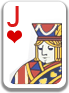
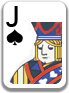
Change card image name for mapping

diff --git a/lib/src/play_session/positioned_player_slot.dart b/lib/src/play_session/positioned_player_slot.dart
@@ -2,6 +2,7 @@ import 'package:flutter/material.dart';
 
 
 import '../cards/cards.dart';
+import '../../proto/message.pb.dart' as $proto;
 
 
 class PlayerPanel extends StatelessWidget {
@@ -10,6 +11,8 @@ class PlayerPanel extends StatelessWidget {
   final String chips;
   final bool active = false;
   final bool showCards;
+  final $proto.Card card1;
+  final $proto.Card card2;
 
   PlayerPanel({
     super.key,
@@ -17,7 +20,11 @@ class PlayerPanel extends StatelessWidget {
     required this.playerName,
     required this.chips,
     required this.showCards,
+    required this.card1,
+    required this.card2,
   });
+
+  String cardToImagePath($proto.Card card) => 'assets/cards/${card.suit.value}_${card.rank.value + 1}.png';
 
   @override
   Widget build(BuildContext context) {
@@ -42,12 +49,12 @@ class PlayerPanel extends StatelessWidget {
                 children: [
                   const SizedBox(height: 5),
                   Image.asset(
-                    'assets/cards/1_7.png',
+                    cardToImagePath(card1),
                     width: 40, // Card width
                     height: 60, // Card height
                   ),
                   Image.asset(
-                    'assets/cards/4_2.png',
+                    cardToImagePath(card2),
                     width: 40, // Card width
                     height: 60, // Card height
                   ),
@@ -62,7 +69,7 @@ class PlayerPanel extends StatelessWidget {
             top: 0,
             child: CircleAvatar(
               backgroundImage: AssetImage( playerName != '' ? 'assets/images/avatar_default.png'
-              : 'assets/images/avatar_empty.png'), // Player image path
+              : 'assets/images/avatar_plus.png'), // Player image path
               radius: 40, // Adjust size
               child: Container(
                 decoration: BoxDecoration(

diff --git a/lib/src/game_internals/poker_game_state.dart b/lib/src/game_internals/poker_game_state.dart
@@ -1,22 +1,22 @@
 import 'package:flutter/foundation.dart';
 
-import '../../proto/message.pb.dart';
+import '../../proto/message.pb.dart' as $proto;
 
 class PlayingSlot {
-  String? _state;
-  String? _name;
-  int? _chips;
-  List<String>? _cards;
+  String _state = '';
+  String _name = '';
+  int _chips = 0;
+  List<$proto.Card> _cards = [];
   bool _showCards = false;
 
-  String get getState => _state!;
-  String get getName => _name!;
-  int get getChips => _chips!;
-  List<String> get getCards => _cards!;
+  String get getState => _state;
+  String get getName => _name;
+  int get getChips => _chips;
+  List<$proto.Card> get getCards => _cards;
   bool get showCards => _showCards;
 
-  void addCard(String card) {
-    _cards?.add(card);
+  void addCard($proto.Card card) {
+    _cards.add(card);
   }
   void setState(String newState) {
     _state = newState;
@@ -53,7 +53,7 @@ class PokerGameState extends ChangeNotifier {
   int _playerMainIndex = 0;
   int _currentTurnIndex = 0;
 
-  List<Card> _communityCards = [];
+  List<$proto.Card> _communityCards = [];
   int _totalPot = 0;
 
   PlayingSlot get playerMain => _players[_playerMainIndex % _maxPlayers];
@@ -67,7 +67,7 @@ class PokerGameState extends ChangeNotifier {
   PlayingSlot get player8 => _players[(_playerMainIndex+ 8) % _maxPlayers];
   PlayingSlot get player9 => _players[(_playerMainIndex+ 9) % _maxPlayers];
 
-  List<Card> get communityCards => _communityCards;
+  List<$proto.Card> get communityCards => _communityCards;
   int get totalPot => _totalPot;
   int get currentTurnIndex => _currentTurnIndex;
 
@@ -80,7 +80,7 @@ class PokerGameState extends ChangeNotifier {
     notifyListeners();
   }
 
-  void dealCommunityCard(Card card) {
+  void dealCommunityCard($proto.Card card) {
     _communityCards.add(card);
     notifyListeners();
   }

diff --git a/lib/src/play_session/play_session_screen.dart b/lib/src/play_session/play_session_screen.dart
@@ -128,6 +128,8 @@ class _PlaySessionScreenState extends State<PlaySessionScreen> {
                       playerName: pokerGameState.playerMain.getName, // Replace with player's name
                       chips: pokerGameState.playerMain.getChips.toString(), // Replace with chips amount
                       showCards: true,
+                      card1: pokerGameState.playerMain.getCards[0],
+                      card2: pokerGameState.playerMain.getCards[1],
                     );
                   },
                 ),
@@ -141,6 +143,8 @@ class _PlaySessionScreenState extends State<PlaySessionScreen> {
                   playerName: "Toan", // Replace with player's name
                   chips: "4000", // Replace with chips amount
                   showCards: false  ,
+                  card1: context.read<PokerGameState>().player1.getCards[0],
+                  card2: context.read<PokerGameState>().player1.getCards[1],
                 ),
               ),
 
@@ -152,6 +156,8 @@ class _PlaySessionScreenState extends State<PlaySessionScreen> {
                   playerName: "Mo", // Replace with player's name
                   chips: "2000", // Replace with chips amount
                   showCards: false,
+                  card1: context.read<PokerGameState>().player2.getCards[0],
+                  card2: context.read<PokerGameState>().player2.getCards[1],
                 ),
               ),
 
